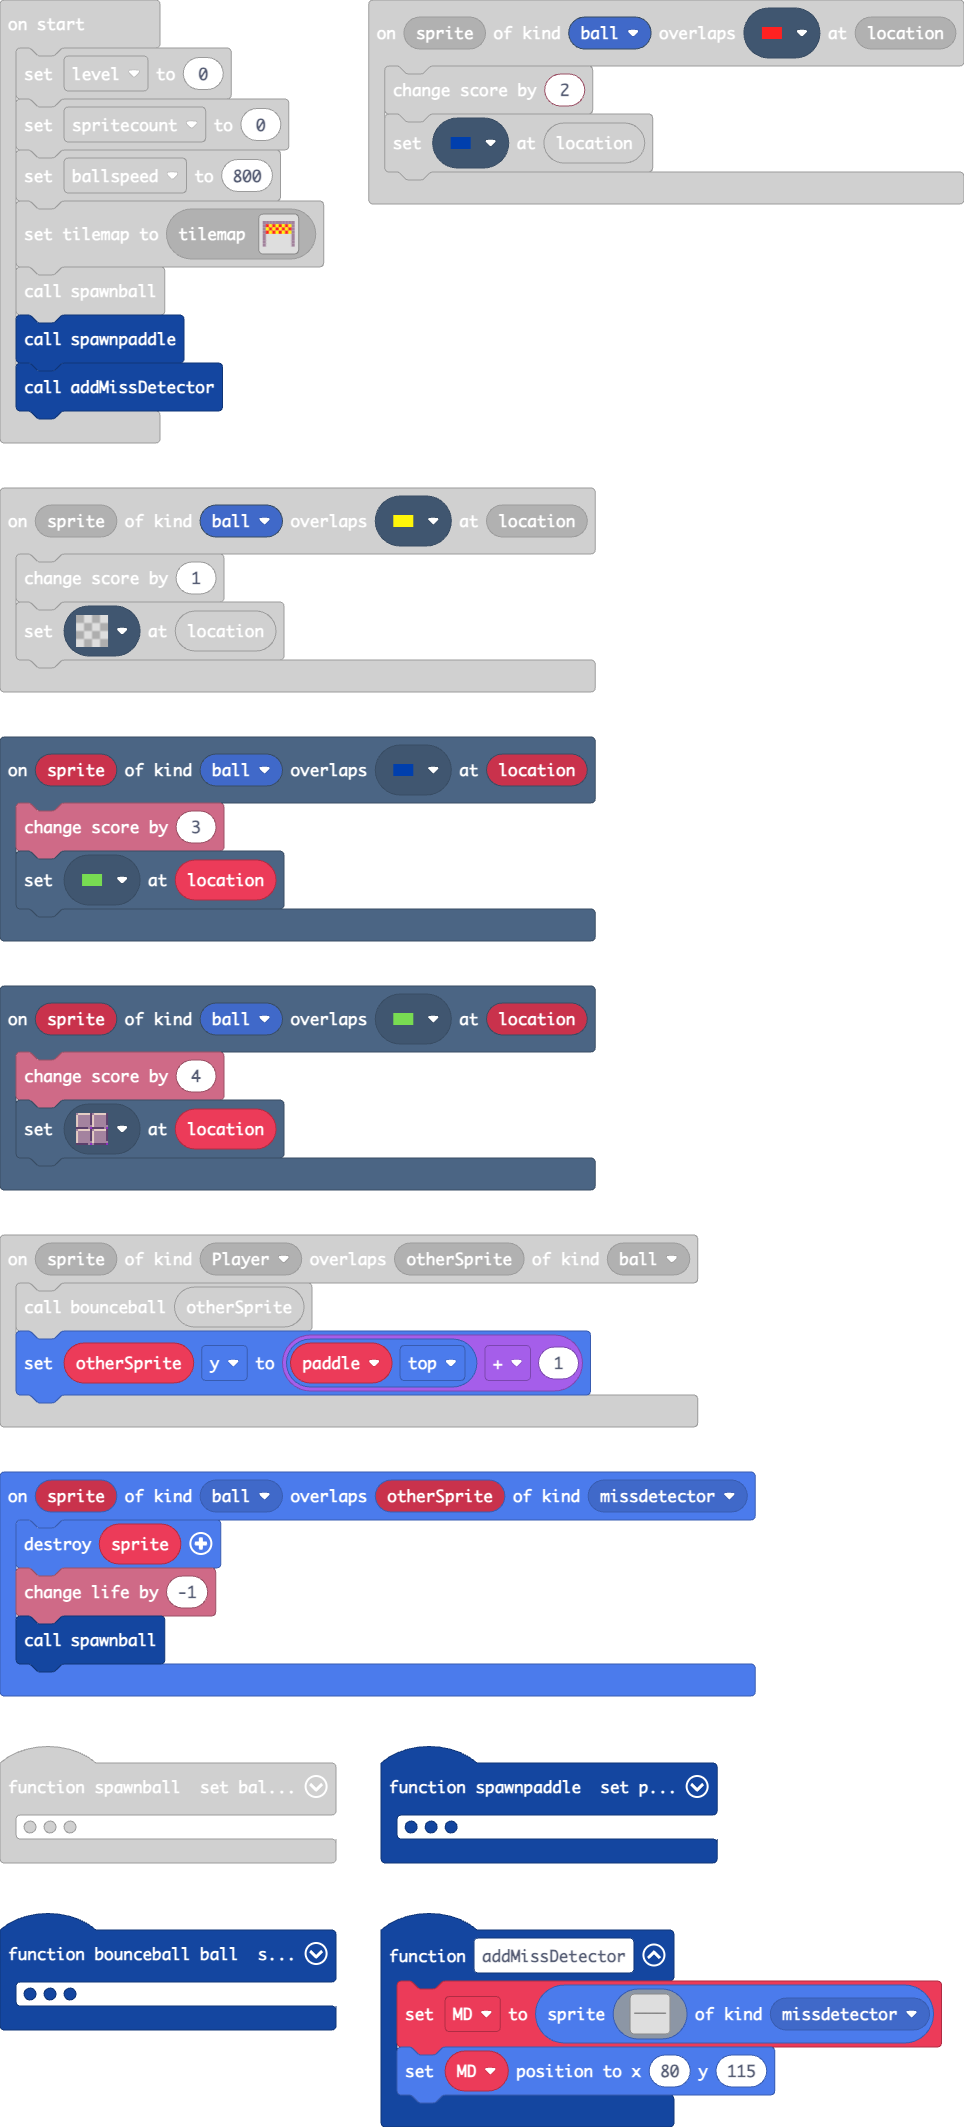
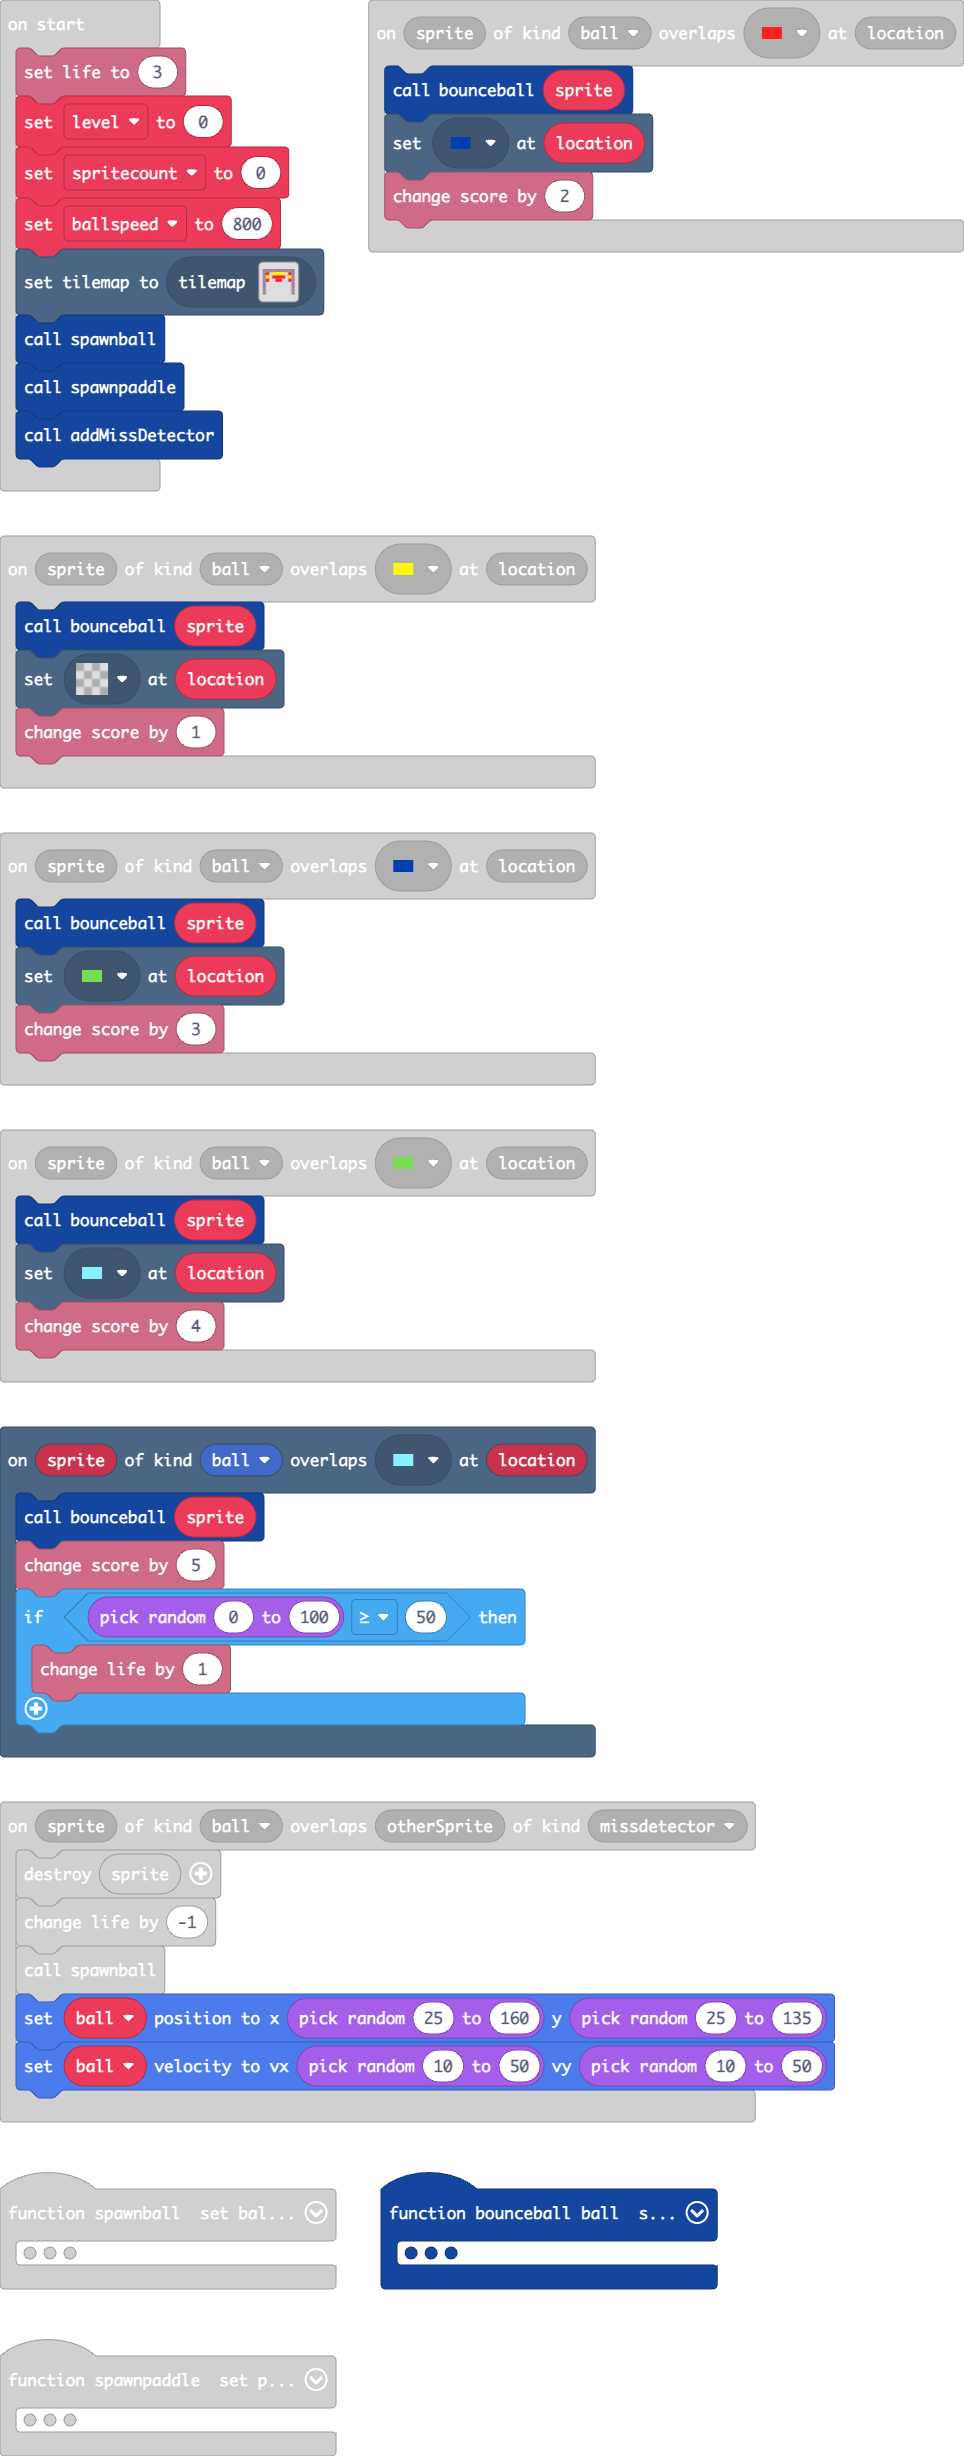
Update main.blocks, main.ts, tilemap.g.jres, tilemap.g.ts

diff --git a/tilemap.g.ts b/tilemap.g.ts
@@ -10,6 +10,10 @@ namespace myTiles {
     export const tile5 = image.ofBuffer(hex``);
     //% fixedInstance jres blockIdentity=images._tile
     export const tile1 = image.ofBuffer(hex``);
+    //% fixedInstance jres blockIdentity=images._tile
+    export const tile9 = image.ofBuffer(hex``);
+    //% fixedInstance jres blockIdentity=images._tile
+    export const tile7 = image.ofBuffer(hex``);
 
     helpers._registerFactory("tilemap", function(name: string) {
         switch(helpers.stringTrim(name)) {
@@ -70,17 +74,6 @@ namespace myTiles {
 . . . . . . . . . . . . . . . . 
 . . . . . . . . . . . . . . . . 
 `, [myTiles.transparency16], TileScale.Sixteen);
-            case "level2":
[1 lines of base64/hex data omitted]
-2 2 2 2 2 2 2 2 2 2 
-2 . . . . . . . . 2 
-2 . . . . . . . . 2 
-2 . . . . . . . . 2 
-2 . . . . . . . . 2 
-2 . . . . . . . . 2 
-2 . . . . . . . . 2 
-2 . . . . . . . . 2 
-`, [myTiles.transparency16,sprites.dungeon.floorDark0,myTiles.tile4,myTiles.tile5], TileScale.Sixteen);
             case "level5":
             case "level5":return tiles.createTilemap(hex`1000100000000000000000000000000000000000000000000000000000000000000000000000000000000000000000000000000000000000000000000000000000000000000000000000000000000000000000000000000000000000000000000000000000000000000000000000000000000000000000000000000000000000000000000000000000000000000000000000000000000000000000000000000000000000000000000000000000000000000000000000000000000000000000000000000000000000000000000000000000000000000000000000000000000000000000000000000000000000000000000000000000000000000000000000000000000000`, img`
 . . . . . . . . . . . . . . . . 
@@ -100,6 +93,17 @@ namespace myTiles {
 . . . . . . . . . . . . . . . . 
 . . . . . . . . . . . . . . . . 
 `, [myTiles.transparency16,myTiles.tile1], TileScale.Sixteen);
+            case "level2":
[1 lines of base64/hex data omitted]
+2 2 2 2 2 2 2 2 2 2 
+2 . . . . . . . . 2 
+2 . . . . . . . . 2 
+2 . . . . . . . . 2 
+2 . . . . . . . . 2 
+2 . . . . . . . . 2 
+2 . . . . . . . . 2 
+2 . . . . . . . . 2 
+`, [myTiles.transparency16,sprites.dungeon.floorDark0,myTiles.tile4,myTiles.tile5], TileScale.Sixteen);
         }
         return null;
     })
@@ -115,6 +119,10 @@ namespace myTiles {
             case "tile5":return tile5;
             case "myTile":
             case "tile1":return tile1;
+            case "myTile7":
+            case "tile9":return tile9;
+            case "myTile5":
+            case "tile7":return tile7;
         }
         return null;
     })

diff --git a/main.ts b/main.ts
@@ -3,8 +3,9 @@ namespace SpriteKind {
     export const missdetector = SpriteKind.create()
 }
 scene.onOverlapTile(SpriteKind.ball, assets.tile`myTile`, function (sprite, location) {
+    bounceball(sprite)
+    tiles.setTileAt(location, assets.tile`myTile5`)
     info.changeScoreBy(4)
-    tiles.setTileAt(location, sprites.dungeon.floorDark0)
 })
 function addMissDetector () {
     MD = sprites.create(img`
@@ -14,26 +15,41 @@ function addMissDetector () {
     MD.setPosition(80, 115)
 }
 scene.onOverlapTile(SpriteKind.ball, assets.tile`myTile3`, function (sprite, location) {
-    info.changeScoreBy(2)
+    bounceball(sprite)
     tiles.setTileAt(location, assets.tile`myTile1`)
+    info.changeScoreBy(2)
 })
 scene.onOverlapTile(SpriteKind.ball, assets.tile`myTile2`, function (sprite, location) {
-    info.changeScoreBy(1)
+    bounceball(sprite)
     tiles.setTileAt(location, assets.tile`transparency16`)
+    info.changeScoreBy(1)
 })
 scene.onOverlapTile(SpriteKind.ball, assets.tile`myTile1`, function (sprite, location) {
-    info.changeScoreBy(3)
+    bounceball(sprite)
     tiles.setTileAt(location, assets.tile`myTile`)
+    info.changeScoreBy(3)
 })
 function bounceball (ball: Sprite) {
-    ballVx = ball.vx * 1
+    ballVx = randint(ballspeed / 3, ballspeed)
     ballVy = ball.vy * -1
+    if (ball.vx < 0) {
+        ballVx = 0 * -1
+    }
     ball.setVelocity(ballVx, ballVy)
 }
+scene.onOverlapTile(SpriteKind.ball, assets.tile`myTile5`, function (sprite, location) {
+    bounceball(sprite)
+    info.changeScoreBy(5)
+    if (randint(0, 100) >= 50) {
+        info.changeLifeBy(1)
+    }
+})
 sprites.onOverlap(SpriteKind.ball, SpriteKind.missdetector, function (sprite, otherSprite) {
     sprites.destroy(sprite)
     info.changeLifeBy(-1)
     spawnball()
+    ball.setPosition(randint(25, 160), randint(25, 135))
+    ball.setVelocity(randint(10, 50), randint(10, 50))
 })
 function spawnball () {
     ball = sprites.create(img`
@@ -55,7 +71,7 @@ function spawnball () {
         . . . . . . . . . . . . . . . . 
         `, SpriteKind.ball)
     ball.setPosition(73, 54)
-    ball.setVelocity(50, 50)
+    ball.setVelocity(ballspeed, ballspeed)
     ball.setBounceOnWall(true)
     ball.setScale(0.35, ScaleAnchor.Middle)
 }
@@ -79,8 +95,8 @@ function spawnpaddle () {
         . . . . . . . . . . . . . . . . 
         `, SpriteKind.Player)
     paddle.setPosition(80, 110)
-    paddle.setStayInScreen(true)
     controller.moveSprite(paddle, 100, 0)
+    paddle.setStayInScreen(true)
 }
 sprites.onOverlap(SpriteKind.Player, SpriteKind.ball, function (sprite, otherSprite) {
     bounceball(otherSprite)
@@ -91,9 +107,11 @@ let ball: Sprite = null
 let ballVy = 0
 let ballVx = 0
 let MD: Sprite = null
+let ballspeed = 0
+info.setLife(3)
 let level = 0
 let spritecount = 0
-let ballspeed = 800
+ballspeed = 800
 tiles.setCurrentTilemap(tilemap`level2`)
 spawnball()
 spawnpaddle()
